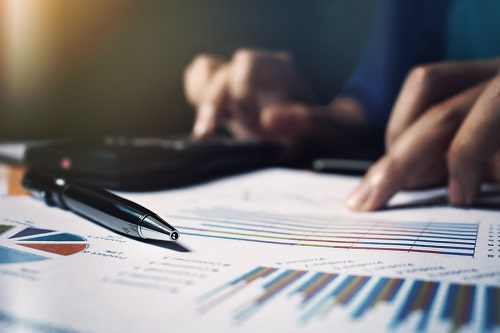
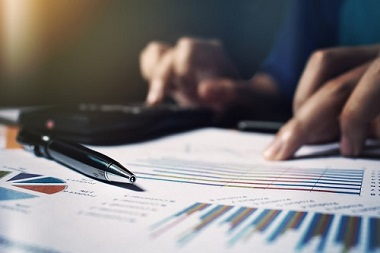
Planejamento Financeiro

diff --git a/CodigoPraTodos CPT/financeiro.html b/CodigoPraTodos CPT/financeiro.html
@@ -56,7 +56,7 @@ figure.foto-legenda figcaption {
     opacity: 0;
     position: absolute;
     top:0px;
-    background-color: rgba(0,0,0,.4);
+    background-color: rgba(0,0,0,.8);
     color:white;
     width: 100%;
     height: 100%;
@@ -97,7 +97,7 @@ figure.foto-legenda:hover figcaption {
 
         <figure class="foto-legenda">
             
-            <img src="imgs/planejar01.jpg" height="150">
+            <img src="imgs/planejar02.jpg" height="150">
             <figcaption>
                 <p>Planeje seu futuro financeiro</p>
             </figcaption>
